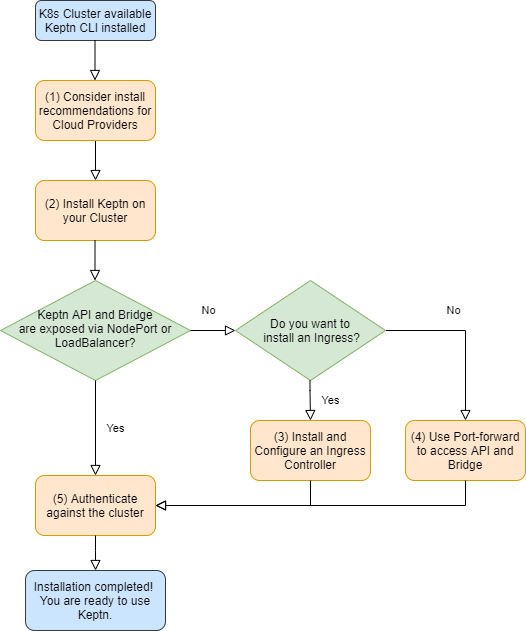
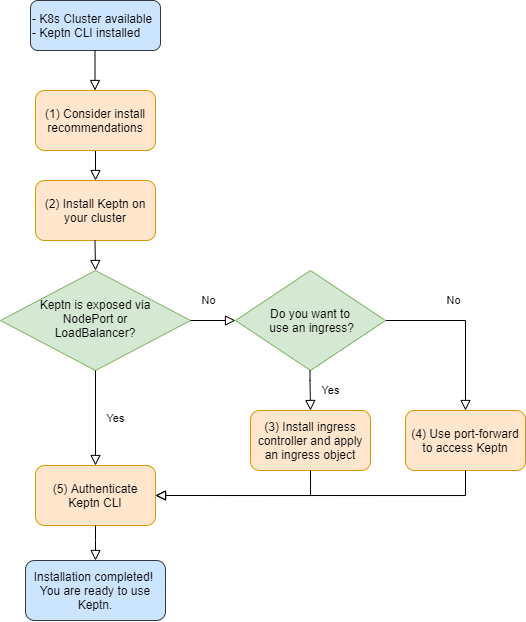
Review of install instructions

diff --git a/content/docs/develop/operate/install/index.md b/content/docs/develop/operate/install/index.md
@@ -1,6 +1,6 @@
 ---
 title: Install CLI and Keptn
-description: Install Keptn on one of the supported Kubernetes platforms.
+description: Install Keptn on your Kuberentes cluster and expose it.
 weight: 1
 keywords: setup
 ---
@@ -10,7 +10,7 @@ keywords: setup
 
 ## Create Kubernetes cluster
 
-Select one of the following options:
+To create a Kubernetes cluster, select one of the following options:
 
 <details><summary>Azure Kubernetes Service (AKS)</summary>
 <p>
@@ -192,7 +192,8 @@ Please refer to the [official homepage of K3s](https://k3s.io) for detailed inst
 </details>
 
 ## Install Keptn CLI
-Every release of Keptn provides binaries for the Keptn CLI. These binaries are available for Linux, macOS, and Windows.
+
+Every Keptn release provides binaries for the Keptn CLI. These binaries are available for Linux, macOS, and Windows.
 
 - Download the version for your operating system from: [github.com/keptn/](https://github.com/keptn/keptn/releases/tag/0.6.2)
 - Unpack the archive
@@ -217,32 +218,33 @@ Every release of Keptn provides binaries for the Keptn CLI. These binaries are a
 
 ## Install Keptn
 
-When installing Keptn, you can choose how to expose Keptn onto an external IP address, that is outside of your cluster. For doing so, the following three Kuberentes ServiceTypes are available: 
+When installing Keptn, you have three possibilities to expose Keptn onto an external IP address that is outside of your cluster. The three possibilities are reflected by the following three Kuberentes *ServiceTypes*:
 
-* **ClusterIP**: Exposes the Keptn on a cluster-internal IP.
-* **NodePort**: Exposes the Keptn on each Node's IP at a static port.
-* **LoadBalancer**: Exposes the Keptn externally using a cloud provider's load balancer.
+* **ClusterIP**: Exposes Keptn on a cluster-internal IP.
+* **NodePort**: Exposes Keptn on each Node's IP at a static port.
+* **LoadBalancer**: Exposes Keptn externally using a cloud provider's load balancer.
 
-<!-- TODO: Reduce it to one endpoint -->
+To select the approach of exposing Keptn that best fits your needs, you can set the flag `xyz` when launching the Keptn installation:
 
-To select the exposing mechanism that best fits your needs, you can set the two flags when triggering the Keptn installation:
+  ```console
+  --keptn-api-service-type=[ClusterIP | NodePort | LoadBalancer]
+  --keptn-bridge-service-type=[ClusterIP | NodePort | LoadBalancer]
+  ```
 
-```console
---keptn-api-service-type=[ClusterIP | NodePort | LoadBalancer]
---keptn-bridge-service-type=[ClusterIP | NodePort | LoadBalancer]
-```
-
-Depending on the selected approach for exposing Keptn and especially when going with *ClusterIP*, additional steps are required for a successful Keptn installation. The next flow chart guides you through the installation process depending on your decisions.   
+Depending on the selected approach and especially when going with *ClusterIP*, additional steps are required for a successful Keptn installation. The next flow chart guides you through the installation process depending on your decisions.   
 
 {{< popup_image
 link="./assets/installation_process.png"
 caption="Installation process"
 width="500px">}}
 
-* When using *NodePort* or *LoadBalancer* for exposing Keptn, just the authentication of the Keptn CLI is required: [(5) Authenticate the Keptn CLI](./#5-authenticate-the-keptn-cli)
-* When using *ClusterIP*, you then need to decide wether to use:
-    * Ingress: [(3) Install and Configure an Ingress Controller](./#3-install-and-configure-an-ingress-controller) or,
-    * Port-forward: [(4) Use Port-forward to access API and Bridge](./#4-use-port-forward-to-access-api-and-bridge) to accesss Keptn. 
+<br>
+Brief explanation of the flow chart: 
+
+* When using *NodePort* or *LoadBalancer*, just the authentication of the Keptn CLI is required: [(5) Authenticate Keptn CLI](./#5-authenticate-keptn-cli)
+* When using *ClusterIP*, a decision must me made whether to use
+    * Ingress: [(3) Install ingress controller and apply an ingress object](./#3-install-ingress-controller-and-apply-an-ingress-object) or,
+    * Port-forward: [(4) Use port-forward to access Keptn](./#4-use-port-forward-to-access-keptn) to accesss Keptn. 
 
 ### (1) Consider install recommendations
 
@@ -260,13 +262,13 @@ width="500px">}}
 
 **Remarks:**
 
-* (1) Please be aware that the Cloud Provider will charge you for a LoadBalancer. 
+* (1) Please be aware that the Cloud Provider will charge you for a *LoadBalancer*. 
 
 ### (2) Install Keptn on your cluster
 
 **Keptn Control Plane**
 
-This installation will allow you to use Keptn for the [Quality Gates](../../quality_gates/) and [Automated Operations](../../automated_operations/) use cases.
+This installation allows you to use Keptn for the [Quality Gates](../../quality_gates/) and [Automated Operations](../../automated_operations/) use cases.
 
 * To install Keptn on a Kubernetes cluster, execute the [keptn install](../../reference/cli/commands/keptn_install) command. 
 
@@ -274,7 +276,7 @@ This installation will allow you to use Keptn for the [Quality Gates](../../qual
     keptn install
     ```
 
-* By default, the service type *ClusterIP* is used for API and Bridge. Hence, set the flags `keptn-api-service-type` and `keptn-bridge-service-type` if you want to use another approach of exposing Keptn.
+* By default, the service type *ClusterIP* is used for exposing Keptn. Hence, set the flag `xyz` and `keptn-bridge-service-type` if you want to use another option.
     <!-- TODO: Set flag name -->
     ```console
     keptn install --keptn-api-service-type=[ClusterIP | NodePort | LoadBalancer]
@@ -282,7 +284,7 @@ This installation will allow you to use Keptn for the [Quality Gates](../../qual
 
 **Keptn Control Plane + Execution Plane**
 
-If you want to install Keptn supporting [Continuous Delivery](../../continuous_delivery/) use cases, you have the option to roll-out Keptn **with** components for the execution plane. 
+If you want to install Keptn with [Continuous Delivery](../../continuous_delivery/) use cases, you have the option to roll-out Keptn **with** components for the execution plane. 
 
 * To install Keptn on a Kubernetes cluster with CD support, the `use-case` flag must be set to `continuous-delivery`:
 
@@ -290,42 +292,41 @@ If you want to install Keptn supporting [Continuous Delivery](../../continuous_d
     keptn install --use-case=continuous-delivery
     ```
 
-### (3) Install and Configure an Ingress Controller
+### (3) Install ingress controller and apply an ingress object
 
 <details><summary>**Istio**</summary>
 <p>
 
 * To install an Istio Ingress Controller, please refer to the [official Istio documentation](https://istio.io/latest/docs/setup/install/).
 
-* [Determining the ingress IP and ports](https://istio.io/latest/docs/tasks/traffic-management/ingress/ingress-control/#determining-the-ingress-ip-and-ports):
+* [Determine the ingress IP and ports](https://istio.io/latest/docs/tasks/traffic-management/ingress/ingress-control/#determining-the-ingress-ip-and-ports):
 
-```console
-kubectl -n istio-system get svc istio-ingressgateway
-```
+  ```console
+  kubectl -n istio-system get svc istio-ingressgateway
+  ```
 
-* Create the `ingress-manifest.yaml` manifest for an ingress object in which you set set IP-ADDRESS and PORT. Finally, apply the manifest:
+* Create a `ingress-manifest.yaml` manifest for an ingress object in which you set set IP-ADDRESS and PORT. Finally, apply the manifest:
 
-```yaml
-apiVersion: networking.k8s.io/v1beta1
-kind: Ingress
-metadata:
-  annotations:
-    kubernetes.io/ingress.class: istio
-name: api-keptn-ingress
-namespace: keptn
-spec:
-rules:
-- host: <IP-ADDRESS>
-  http:
-    paths:
-    - backend:
-        serviceName: api-gateway-nginx
-        servicePort: <PORT>
-```
+  ```yaml
+  apiVersion: networking.k8s.io/v1beta1
+  kind: Ingress
+  metadata:
+    annotations:
+      kubernetes.io/ingress.class: istio
+    name: api-keptn-ingress
+  spec:
+    rules:
+    - host: <IP-ADDRESS>
+      http:
+        paths:
+        - backend:
+            serviceName: api-gateway-nginx
+            servicePort: <PORT>
+  ```
 
-```console
-kubectl apply -f ingress-manifest.yaml
-```
+  ```console
+  kubectl apply -f ingress-manifest.yaml
+  ```
 
 </p>
 </details>
@@ -335,30 +336,30 @@ kubectl apply -f ingress-manifest.yaml
 
 * To install a NGINX Ingress Controller, please refer to the [official documentation](https://kubernetes.github.io/ingress-nginx/).
 
-* From where do we get the IP/PORT?
+* From where do we get the IP/PORT? <!-- TODO: How to get IP/PORT? -->
 
 * Create the `ingress-manifest.yaml` manifest for an ingress object in which you set IP-ADDRESS and PORT. Finally, apply the manifest:
 
-```yaml
-apiVersion: networking.k8s.io/v1beta1
-kind: Ingress
-metadata:
-  name: keptn-ingress
-  annotations:
-    nginx.ingress.kubernetes.io/rewrite-target: /
-spec:
-rules:
-- host: <IP-ADDRESS>
-  http:
-    paths:
-    - backend:
-        serviceName: api-gateway-nginx
-        servicePort: <PORT>
-```
+  ```yaml
+  apiVersion: networking.k8s.io/v1beta1
+  kind: Ingress
+  metadata:
+    name: keptn-ingress
+    annotations:
+      nginx.ingress.kubernetes.io/rewrite-target: /
+  spec:
+    rules:
+    - host: <IP-ADDRESS>
+      http:
+        paths:
+        - backend:
+            serviceName: api-gateway-nginx
+            servicePort: <PORT>
+  ```
 
-```console
-kubectl apply -f ingress-manifest.yaml
-```
+  ```console
+  kubectl apply -f ingress-manifest.yaml
+  ```
 
 </p>
 </details>
@@ -372,79 +373,71 @@ kubectl apply -f ingress-manifest.yaml
 
 * Create the `ingress-manifest.yaml` manifest for an ingress object in which you set IP-ADDRESS and PORT. Finally, apply the manifest:
 
-```yaml
-apiVersion: networking.k8s.io/v1beta1
-kind: Ingress
-metadata:
-  name: keptn-ingress
-spec:
-rules:
-- host: <IP-ADDRESS>
-  http:
-    paths:
-    - backend:
-        serviceName: api-gateway-nginx
-        servicePort: <PORT>
-```
+  ```yaml
+  apiVersion: networking.k8s.io/v1beta1
+  kind: Ingress
+  metadata:
+    name: keptn-ingress
+  spec:
+    rules:
+    - host: <IP-ADDRESS>
+      http:
+        paths:
+        - backend:
+            serviceName: api-gateway-nginx
+            servicePort: <PORT>
+  ```
 
-```console
-kubectl apply -f ingress-manifest.yaml
-```
+  ```console
+  kubectl apply -f ingress-manifest.yaml
+  ```
 
 </p>
 </details>
 
-### (4) Use Port-forward to access API and Bridge
+### (4) Use port-forward to access Keptn
 
-<!-- TODO: change svc/api-gateway-nginx -->
+If you have not exposed Keptn via *NodePort* or *LoadBalancer* and you don't want to install an ingress on your Kubernetes cluster, you can use `kubectl port-forward` to connect to Keptn.
 
-* Use port-forward to access Keptn:
+* Please make sure that your `kubectl` CLI is configured to communicate with your cluster.
 
-```console
-kubectl -n keptn port-forward svc/api-gateway-nginx 8080:80
-```
+* Execute `kubectl port-forward` to access Keptn:
 
-### (5) Authenticate the Keptn CLI
+  ```console
+  kubectl -n keptn port-forward service/api-gateway-nginx 8080:80
+  ```
 
-* Get the endpoint of Keptn: 
+### (5) Authenticate Keptn CLI
 
-<!-- TODO: How is the SVC called? -->
+* Get them Keptn endpoint:
 
-```console
-kubectl -n keptn get svc api-gateway-nginx
-```
+  ```console
+  kubectl -n keptn get service api-gateway-nginx
+  ```
 
-* Note down IP and prt of the `api-gateway-nginx` service, and manually authenticate the Keptn CLI:
+* Note down IP and PORT of the `api-gateway-nginx` service and authenticate the Keptn CLI:
 
-```console
-keptn auth --endpoint=http://IP:PORT/ --api-token=$(kubectl get secret keptn-api-token -n keptn -ojsonpath={.data.keptn-api-token} | base64 --decode) --scheme=http
-```
+  ```console
+  keptn auth --endpoint=http://<IP>:<PORT>/api --api-token=$(kubectl get secret keptn-api-token -n keptn -ojsonpath={.data.keptn-api-token} | base64 --decode) --scheme=http
+  ```
 
 ## Change how to expose Keptn
 
-If you would like to change the way of exposing the Keptn API or Bridge, you can do this by changing the Kubernetes service type.
+If you would like to change the way of exposing Keptn, you can do this by changing the Kubernetes service type.
 
 <!-- TODO: Reduce it to one endpoint -->
 
-* Change api service type from ClusterIP to LoadBalancer:
-```console
-kubectl patch svc api-gateway-nginx -n keptn -p '{"spec": {"type": "LoadBalancer"}}'
-```
+* Change api-gateway-nginx service type from ClusterIP to LoadBalancer:
+
+  ```console
+  kubectl patch service api-gateway-nginx -n keptn -p '{"spec": {"type": "LoadBalancer"}}'
+  ```
 
 * Change api service type from ClusterIP to NodePort:
-```console
-kubectl patch svc api-gateway-nginx -n keptn -p '{"spec": {"type": "NodePort"}}'
-```
 
-* Change bridge service type from ClusterIP to LoadBalancer:
-```console
-kubectl patch svc bridge -n keptn -p '{"spec": {"type": "LoadBalancer"}}'
-```
-
-* Change bridge service type from ClusterIP to NodePort:
-```console
-kubectl patch svc bridge -n keptn -p '{"spec": {"type": "NodePort"}}'
-```
+  ```console
+  kubectl patch service api-gateway-nginx -n keptn -p '{"spec": {"type": "NodePort"}}'
+  ```
 
 ## Troubleshooting
 
